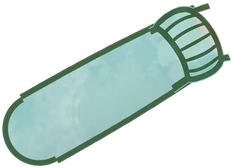
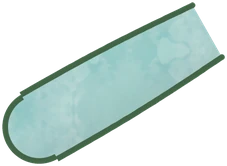
Plates 4.24.1 (build)

diff --git a/index.html b/index.html
@@ -141,7 +141,10 @@ body { margin: 0; height: 100%; overflow: hidden; color: var(--text); font: 15px
 .cp-fig.waving > .gn-w, .cp-fig.waving > .gn-a1 { opacity: 1; }
 .cp-fig > .gn-a1, .cp-fig > .gn-a2 { transform-origin: 11.79% 50.76%; will-change: transform; }
 .gn-a1 > img, .gn-a2 > img { position: absolute; display: block; -webkit-user-select: none; user-select: none; -webkit-user-drag: none; }
-.gn-a1 > .gn-arm { left: 3.28%; top: 39.77%; width: 50.67%; height: 14.33%; }
+.gn-a1 > .gn-arm { left: 3.28%; top: 40.01%; width: 49.33%; height: 14.09%; }
+/* the waving arm's cuff sits over the hand, so the hand comes out of the sleeve instead of from a thin point; it fades
+   in as the arm leaves the other forearm, where it would double the cuff that is there at rest */
+.gn-a2 > .gn-cf { left: 37.54%; top: 39.25%; width: 18.77%; height: 8.11%; opacity: 0; }
 .cp-fig > .gn-o { left: 22.67%; top: 40.53%; width: 52.41%; height: 10.96%; }
 .gn-a2 > .gn-h { left: 47.28%; top: 36.52%; width: 41.03%; height: 10.43%; transform-origin: 1% 54.23%; will-change: transform; }
 /* his open eyes, laid over the closed ones while he waves or looks at a butterfly on his nose; they open and close
@@ -3461,7 +3464,7 @@ function saveGoal(id){
    without a portrait yet shows a soft silhouette. */
 const TRAINERS = [
   {id: 'guide', name: 'Gentle Gunnar', who: 'New to the gym', level: 'new', art: 'art/coach-gunnar.webp', hand: 'art/coach-gunnar-hand.webp', eyes: 'art/coach-gunnar-eyes.webp',
-    wave: 'art/coach-gunnar-wave.webp', arm: 'art/coach-gunnar-arm.webp', over: 'art/coach-gunnar-over.webp',
+    wave: 'art/coach-gunnar-wave.webp', arm: 'art/coach-gunnar-arm.webp', over: 'art/coach-gunnar-over.webp', cuff: 'art/coach-gunnar-cuff.webp',
     about: 'Calm, patient and proud of every set. He keeps things simple and never rushes you.',
     how: 'Machines and simple lifts, one tip on every card and small steps up.',
     fits: 'New lifters, or anyone back after a break.',
@@ -3481,7 +3484,7 @@ const coachPick = (cur, picked, cls) => '<div class="cps' + (picked ? ' picked' 
   const on = picked && t.id === cur;
   const img = (src, c) => '<img' + (c ? ' class="' + c + '"' : '') + ' src="' + src + '" alt="" draggable="false" onerror="this.style.visibility=\'hidden\'">';
   return '<button class="cp' + (on ? ' on' : '') + '" data-a="trainer" data-v="' + t.id + '" role="radio" aria-checked="' + on + '"><span class="cp-art"><span class="cp-fig"' + (t.art ? '' : ' style="--ar: 40 / 100"') + '>' +
-    (t.art ? img(t.art) + (t.hand ? img(t.wave, 'gn-w') + '<span class="gn-a1">' + img(t.arm, 'gn-arm') + '</span>' + img(t.eyes, 'gn-e') + img(t.over, 'gn-o') + '<span class="gn-a2">' + img(t.hand, 'gn-h') + '</span>' : '') : COACH_GHOST) + '</span></span>' + (t.hand ? '<span class="bfs" aria-hidden="true"></span>' : '') +
+    (t.art ? img(t.art) + (t.hand ? img(t.wave, 'gn-w') + '<span class="gn-a1">' + img(t.arm, 'gn-arm') + '</span>' + img(t.eyes, 'gn-e') + img(t.over, 'gn-o') + '<span class="gn-a2">' + img(t.hand, 'gn-h') + img(t.cuff, 'gn-cf') + '</span>' : '') : COACH_GHOST) + '</span></span>' + (t.hand ? '<span class="bfs" aria-hidden="true"></span>' : '') +
     '<span class="cp-tx"><b>' + t.name + '</b><em>' + t.who + '</em><small>' + t.about + '</small><span class="cp-more">' +
     [['Trains', t.how], ['Best for', t.fits], ['Messages', t.talk]].filter(r => r[1]).map(r => '<span><i>' + r[0] + '</i>' + r[1] + '</span>').join('') + '</span></span></button>';
 }).join('') + '</div>';
@@ -3496,7 +3499,7 @@ const BF_DEFS = "<radialGradient id=\"bfg-lime\" cx=\".85\" cy=\".55\" r=\"1\"><
 let bfDefs = false;
 function bfDefine(){ if(bfDefs) return; bfDefs = true; document.body.insertAdjacentHTML('beforeend', '<svg width="0" height="0" style="position:absolute" aria-hidden="true"><defs>' + BF_DEFS + '</defs></svg>'); }
 const bfHtml = col => '<b class="wl"><svg viewBox="-12 -10 12 20"><use href="#bfw-' + col + '"/></svg></b><b class="wr"><svg viewBox="0 -10 12 20"><g transform="scale(-1 1)"><use href="#bfw-' + col + '"/></g></svg></b><svg class="bb" viewBox="-12 -10 24 20">' + BF_BODY + '</svg>';
-const GN = {raf: 0, card: null, bfs: [], wave: null, last: 0, backAt: 0, nextAt: 0, waveAt: 0, noseAt: 0, sniffs: [], geo: null, geoAt: 0, fig: null, hand: null, a1: null, a2: null, lean: '', sc: '', eyes: false, waving: false};
+const GN = {raf: 0, card: null, bfs: [], wave: null, last: 0, backAt: 0, nextAt: 0, waveAt: 0, noseAt: 0, sniffs: [], geo: null, geoAt: 0, fig: null, hand: null, cuff: null, a1: null, a2: null, lean: '', sc: '', eyes: false, waving: false};
 const gnCard = () => [...document.querySelectorAll('.cps.picked .cp.on[data-v="guide"]')].find(c => c.offsetParent !== null && !c.closest('.modal:not(.open), .sheet-wrap:not(.open)')) || null;
 function gnLive(){ if(!GN.raf && !reduceMotion() && gnCard()) GN.raf = requestAnimationFrame(gnTick); }
 // where he is in the card's own pixels (the sheet may be zoomed for large text)
@@ -3516,7 +3519,7 @@ function bfAdd(g){
 // hand waves to and fro at the wrist (more than the arm moves), and it all comes back down. A tap waves big; on his
 // own he waves a little smaller
 function gnWave(now, big){
-  GN.wave = {t0: now, dur: big ? 2200 : 1600, arm: big ? -45 : -41, wrist: big ? -51 : -46, amp: big ? 1 : .75, hz: 2.6};
+  GN.wave = {t0: now, dur: big ? 2200 : 1600, arm: big ? -44 : -41, wrist: big ? -48 : -45, amp: big ? 1 : .75, hz: 2.6};
   GN.waveAt = now + 9000 + Math.random() * 6000;
 }
 function wavePose(t){
@@ -3524,7 +3527,8 @@ function wavePose(t){
   const e = t - w.t0; if(e >= w.dur){ GN.wave = null; return null; }
   const up = Math.min(1, e / 300), down = Math.min(1, (w.dur - e) / 340), env0 = Math.min(up, down), env = env0 * env0 * (3 - 2 * env0);
   const ph = Math.sin((e - 220) / 1000 * w.hz * 2 * Math.PI) * Math.min(1, Math.max(0, (e - 220) / 300)) * w.amp;
-  return {arm: env * (w.arm + 3.5 * ph), wrist: env * (w.wrist + 11 * ph)};
+  // the swing stays inside his picture: further out and the fingertips leave the box
+  return {arm: env * (w.arm + 2.5 * ph), wrist: env * (w.wrist + 7.5 * ph)};
 }
 function gnPlay(card){
   if(reduceMotion()) return;
@@ -3543,7 +3547,7 @@ function gnTick(t){
   const card = gnCard();
   if(!card || reduceMotion()){ GN.bfs.forEach(b => b.el.remove()); GN.bfs = []; GN.card = null; GN.wave = null; GN.last = 0; GN.waveAt = GN.noseAt = 0; GN.geo = null; return; }
   bfDefine();
-  if(GN.card !== card){ GN.card = card; GN.fig = card.querySelector('.cp-fig'); GN.hand = card.querySelector('.gn-h'); GN.a1 = card.querySelector('.gn-a1'); GN.a2 = card.querySelector('.gn-a2'); GN.geo = null; GN.lean = GN.sc = ''; GN.eyes = GN.waving = false; const box = card.querySelector('.bfs'); GN.bfs.forEach(b => box.append(b.el)); }
+  if(GN.card !== card){ GN.card = card; GN.fig = card.querySelector('.cp-fig'); GN.hand = card.querySelector('.gn-h'); GN.a1 = card.querySelector('.gn-a1'); GN.a2 = card.querySelector('.gn-a2'); GN.cuff = card.querySelector('.gn-cf'); GN.geo = null; GN.lean = GN.sc = ''; GN.eyes = GN.waving = false; const box = card.querySelector('.bfs'); GN.bfs.forEach(b => box.append(b.el)); }
   if(!GN.waveAt) GN.waveAt = t + 6000 + Math.random() * 4000;
   if(!GN.noseAt) GN.noseAt = t + 9000 + Math.random() * 6000;
   const dt = Math.min(.034, Math.max(.001, (t - (GN.last || t - 16)) / 1000)); GN.last = t;
@@ -3566,6 +3570,7 @@ function gnTick(t){
   const at = ha ? 'rotate(' + ha.toFixed(2) + 'deg)' : '';
   if(GN.a1) GN.a1.style.transform = at; if(GN.a2) GN.a2.style.transform = at;
   if(GN.hand) GN.hand.style.transform = pose && pose.wrist ? 'rotate(' + pose.wrist.toFixed(2) + 'deg)' : '';
+  if(GN.cuff) GN.cuff.style.opacity = ha ? Math.min(1, Math.abs(ha) / 14).toFixed(2) : '';
   const eyes = !!GN.wave || GN.bfs.some(b => b.mode === 'perch');
   if(eyes !== GN.eyes){ GN.eyes = eyes; fig.classList.toggle('eyes', eyes); }
   // the sniff: two quick little breaths in while a butterfly sits on his nose
@@ -4973,6 +4978,7 @@ document.addEventListener('input', e => {
 /* What changed in each version. Rate each change from one to five; the ratings are saved with your data so Claude
    can see which fixes worked. */
 const UPDATES = [
+  {v: '4.24.1', date: '2026-10-21', items: [['gunnareyes', 'Gunnar\'s open eyes smile now'], ['wrist', 'His waving hand comes out of the sleeve, no more thin wrist']]},
   {v: '4.24.0', date: '2026-10-21', items: [['wavearm', 'Gunnar waves with his whole arm: it swings up from the elbow and his hand waves beside his face']]},
   {v: '4.23.0', date: '2026-10-21', items: [['gunnarwave2', 'Gunnar waves bigger and smoother when tapped, and now and then on his own'], ['eyes', 'Gunnar opens his eyes while he waves'], ['sniff', 'A butterfly sometimes lands on Gunnar\'s nose and he sniffs it'], ['wings', 'Butterflies beat their wings in 3D, glide and rest']]},
   {v: '4.22.0', date: '2026-10-21', items: [['bubble', 'A note bubble on every card opens how it went and your note, so the whole card always fits'], ['notespanel', 'Settings, Notes: every note and rating, by exercise'], ['halfkg', 'The weight slider moves in half kilos'], ['nudge', 'Tap beside the marker to move it one step, with a tick on iPhone. iPhone allows no ticks while you drag']]},

diff --git a/sw.js b/sw.js
@@ -1,6 +1,6 @@
 // Plates service worker: the app opens offline. The GitHub API always goes straight to the network.
-const CACHE = 'toppform-4.24.0';
-const SHELL = ['./', './index.html', './manifest.webmanifest', './icons/icon-192.png', './icons/icon-512.png', './icons/apple-touch-icon.png', './art/coach-gunnar-arm.webp', './art/coach-gunnar-eyes.webp', './art/coach-gunnar-hand.webp', './art/coach-gunnar-over.webp', './art/coach-gunnar-wave.webp', './art/coach-gunnar.webp', './art/pp-cap.webp', './art/pp-hand-fing.webp', './art/pp-hand-top.webp', './art/pp-head.webp', './art/purple.webp'];
+const CACHE = 'toppform-4.24.1';
+const SHELL = ['./', './index.html', './manifest.webmanifest', './icons/icon-192.png', './icons/icon-512.png', './icons/apple-touch-icon.png', './art/coach-gunnar-arm.webp', './art/coach-gunnar-cuff.webp', './art/coach-gunnar-eyes.webp', './art/coach-gunnar-hand.webp', './art/coach-gunnar-over.webp', './art/coach-gunnar-wave.webp', './art/coach-gunnar.webp', './art/pp-cap.webp', './art/pp-hand-fing.webp', './art/pp-hand-top.webp', './art/pp-head.webp', './art/purple.webp'];
 self.addEventListener('install', e => { e.waitUntil(caches.open(CACHE).then(c => c.addAll(SHELL)).then(() => self.skipWaiting())); });
 self.addEventListener('activate', e => { e.waitUntil(caches.keys().then(ks => Promise.all(ks.filter(k => k !== CACHE).map(k => caches.delete(k)))).then(() => self.clients.claim())); });
 self.addEventListener('fetch', e => {
